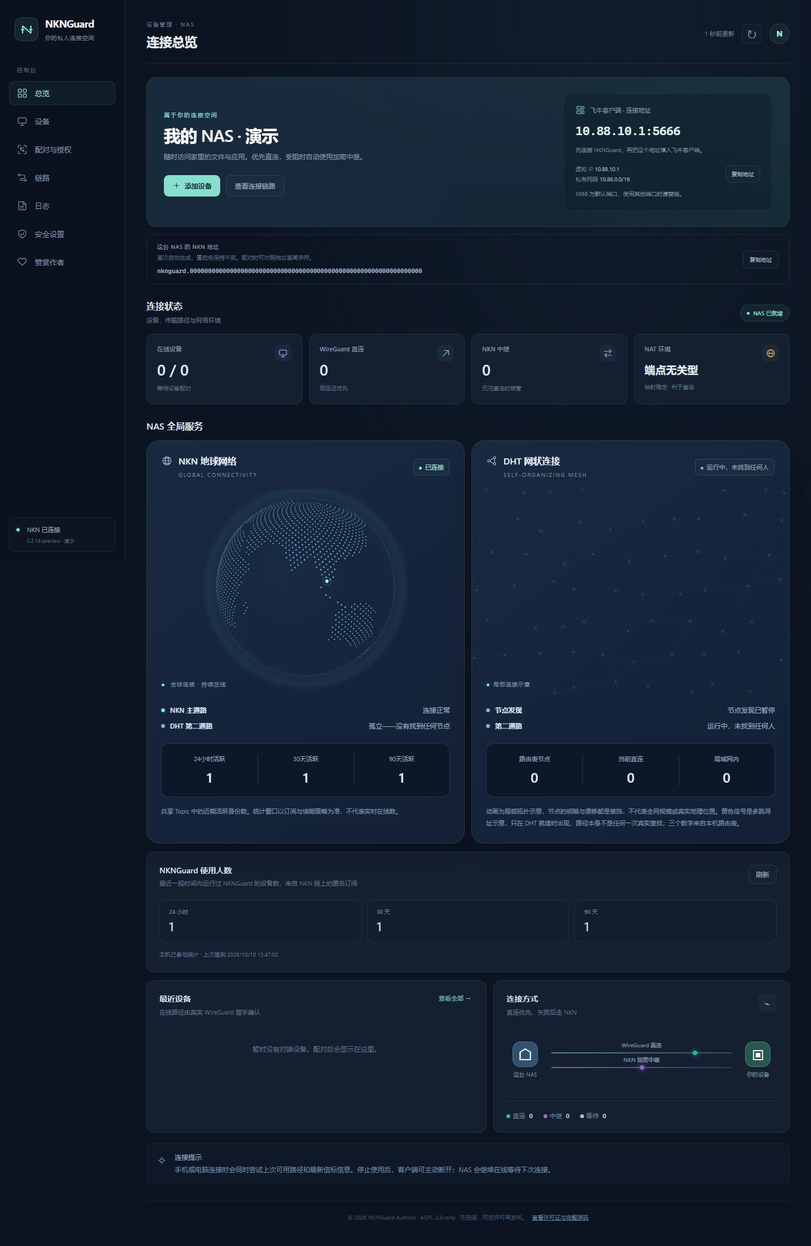
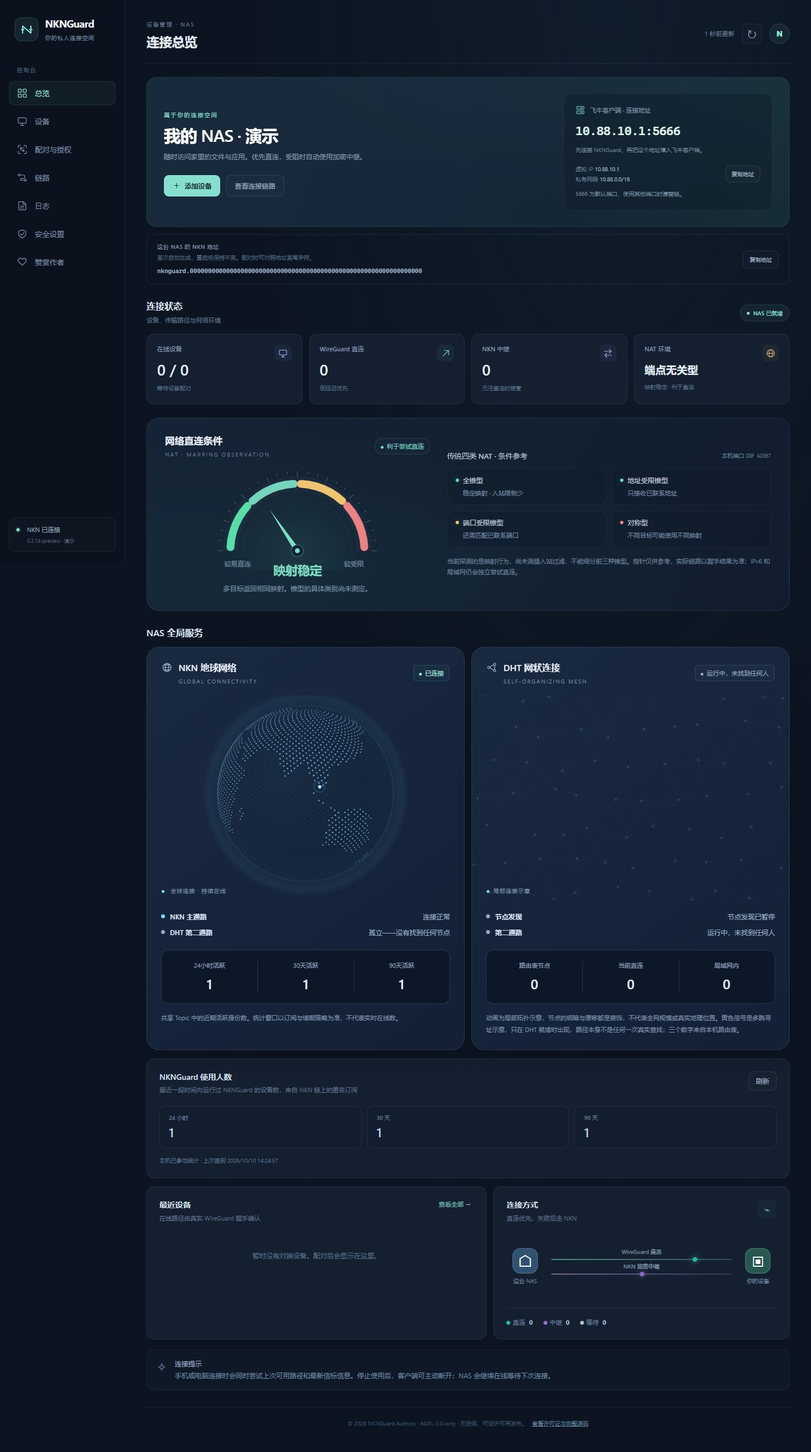
Add native and web NAT mapping dials with accurate status

diff --git a/internal/app/dashboard/index.html b/internal/app/dashboard/index.html
@@ -13,6 +13,8 @@
   <link rel="stylesheet" href="/network-animation.css">
   <link rel="stylesheet" href="/shell.css">
   <link rel="stylesheet" href="/support.css">
+  <link rel="stylesheet" href="/nat-gauge.css">
+  <script src="/nat-gauge.js" defer></script>
   <script src="/support.js" defer></script>
   <script src="/app.js" defer></script>
   <script src="/network-animation.js" type="module"></script>
@@ -56,6 +58,23 @@
         <section class="nas-identity" aria-label="NAS NKN 地址"><div><span class="identity-kicker">这台 NAS 的 NKN 地址</span><p>首次启动生成，重启后保持不变。配对时可对照地址首尾字符。</p><code id="overview-nkn-address">正在读取…</code></div><button class="secondary-button" id="copy-nkn-address" disabled>复制地址</button></section>
         <div class="section-head"><div><h2>连接状态</h2><p>设备、传输路径与网络环境</p></div><span id="overall-pill" class="pill neutral"><i></i>正在读取</span></div>
         <div class="stat-grid"><article class="stat-card"><span class="stat-icon blue"><svg viewBox="0 0 24 24" fill="none" stroke="currentColor" stroke-width="1.5" stroke-linecap="round" stroke-linejoin="round" aria-hidden="true"><use href="#icon-devices"/></svg></span><small>在线设备</small><strong id="online-count">—</strong><span class="stat-note" id="total-count">等待设备数据</span></article><article class="stat-card"><span class="stat-icon mint"><svg viewBox="0 0 24 24" fill="none" stroke="currentColor" stroke-width="1.5" stroke-linecap="round" stroke-linejoin="round" aria-hidden="true"><use href="#icon-direct"/></svg></span><small>WireGuard 直连</small><strong id="direct-count">—</strong><span class="stat-note">低延迟优先</span></article><article class="stat-card"><span class="stat-icon purple"><svg viewBox="0 0 24 24" fill="none" stroke="currentColor" stroke-width="1.5" stroke-linecap="round" stroke-linejoin="round" aria-hidden="true"><use href="#icon-relay"/></svg></span><small>NKN 中继</small><strong id="relay-count">—</strong><span class="stat-note">无法直连时接管</span></article><article class="stat-card"><span class="stat-icon amber"><svg viewBox="0 0 24 24" fill="none" stroke="currentColor" stroke-width="1.5" stroke-linecap="round" stroke-linejoin="round" aria-hidden="true"><use href="#icon-network"/></svg></span><small>NAT 环境</small><strong class="text-stat" id="nat-state">—</strong><span class="stat-note" id="nat-note">等待自动探测</span></article></div>
+        <section class="nat-panel" id="nat-panel" data-mapping="unknown" aria-labelledby="nat-gauge-title">
+          <div><div class="nat-panel__head"><div><h3 id="nat-gauge-title">网络直连条件</h3><p class="nat-panel__eyebrow">NAT · MAPPING OBSERVATION</p></div><span class="nat-chip"><i></i><span id="nat-chip-text">等待网络探测</span></span></div>
+          <div class="nat-dial"><svg viewBox="0 0 320 180" role="img" aria-label="NAT 映射条件尚未测定">
+            <defs><radialGradient id="nat-halo"><stop stop-color="#7ddcc5" stop-opacity=".08"/><stop offset="1" stop-color="#7ddcc5" stop-opacity="0"/></radialGradient><linearGradient id="nat-needle-shade" x1="0" y1="0" x2="0" y2="1"><stop stop-color="currentColor"/><stop offset="1" stop-color="currentColor" stop-opacity=".25"/></linearGradient></defs>
+            <circle cx="160" cy="147" r="110" fill="url(#nat-halo)"/>
+            <path d="M48 147 A112 112 0 0 1 272 147" fill="none" stroke="#ffffff06" stroke-width="25"/>
+            <g fill="none" stroke-width="13" stroke-linecap="round"><path d="M48.2 141.1 A112 112 0 0 1 76.8 72" stroke="#5bddaa"/><path d="M85 63.8 A112 112 0 0 1 154.1 35.2" stroke="#77d4bc"/><path d="M165.9 35.2 A112 112 0 0 1 235 63.8" stroke="#efc470"/><path d="M243.2 72 A112 112 0 0 1 271.8 141.1" stroke="#ed8285"/></g>
+            <line class="nat-tick" x1="36.00" y1="147.00" x2="27.00" y2="147.00"/><line class="nat-tick" x1="32.10" y1="130.16" x2="28.14" y2="129.64"/><line class="nat-tick" x1="35.40" y1="113.61" x2="31.53" y2="112.58"/><line class="nat-tick" x1="45.44" y1="99.55" x2="37.12" y2="96.10"/><line class="nat-tick" x1="48.28" y1="82.50" x2="44.82" y2="80.50"/><line class="nat-tick" x1="57.66" y1="68.47" x2="54.48" y2="66.03"/><line class="nat-tick" x1="72.32" y1="59.32" x2="65.95" y2="52.95"/><line class="nat-tick" x1="81.47" y1="44.66" x2="79.03" y2="41.48"/><line class="nat-tick" x1="95.50" y1="35.28" x2="93.50" y2="31.82"/><line class="nat-tick" x1="112.55" y1="32.44" x2="109.10" y2="24.12"/><line class="nat-tick" x1="126.61" y1="22.40" x2="125.58" y2="18.53"/><line class="nat-tick" x1="143.16" y1="19.10" x2="142.64" y2="15.14"/><line class="nat-tick" x1="160.00" y1="23.00" x2="160.00" y2="14.00"/><line class="nat-tick" x1="176.84" y1="19.10" x2="177.36" y2="15.14"/><line class="nat-tick" x1="193.39" y1="22.40" x2="194.42" y2="18.53"/><line class="nat-tick" x1="207.45" y1="32.44" x2="210.90" y2="24.12"/><line class="nat-tick" x1="224.50" y1="35.28" x2="226.50" y2="31.82"/><line class="nat-tick" x1="238.53" y1="44.66" x2="240.97" y2="41.48"/><line class="nat-tick" x1="247.68" y1="59.32" x2="254.05" y2="52.95"/><line class="nat-tick" x1="262.34" y1="68.47" x2="265.52" y2="66.03"/><line class="nat-tick" x1="271.72" y1="82.50" x2="275.18" y2="80.50"/><line class="nat-tick" x1="274.56" y1="99.55" x2="282.88" y2="96.10"/><line class="nat-tick" x1="284.60" y1="113.61" x2="288.47" y2="112.58"/><line class="nat-tick" x1="287.90" y1="130.16" x2="291.86" y2="129.64"/><line class="nat-tick" x1="284.00" y1="147.00" x2="293.00" y2="147.00"/>
+            <path d="M70 147 A90 90 0 0 1 250 147" fill="none" stroke="#ffffff08"/>
+            <g class="nat-needle"><path d="M160 65 L156 141 L160 153 L164 141 Z" fill="currentColor"/><circle cx="160" cy="147" r="10" fill="#122437" stroke="currentColor" stroke-opacity=".4"/><circle cx="160" cy="147" r="4" fill="currentColor"/></g>
+            <text x="38" y="173" class="nat-dial__label">较易直连</text><text x="238" y="173" class="nat-dial__label">较受限</text>
+          </svg></div><div class="nat-result" aria-live="polite"><strong id="nat-gauge-label">尚未测定</strong><p id="nat-gauge-hint">连接后自动探测；暂无足够结果，指针保持灰色。</p></div></div>
+          <div class="nat-guide"><div class="nat-guide__top"><b>传统四类 NAT · 条件参考</b><span>本机端口 <span class="nat-port" id="nat-gauge-port">尚未监听</span></span></div>
+            <div class="nat-types"><div class="nat-type" style="--type-color:#5bddaa"><b><i></i>全锥型</b><p>稳定映射 · 入站限制少</p></div><div class="nat-type" style="--type-color:#77d4bc"><b><i></i>地址受限锥型</b><p>只接收已联系地址</p></div><div class="nat-type" style="--type-color:#efc470"><b><i></i>端口受限锥型</b><p>还需匹配已联系端口</p></div><div class="nat-type" style="--type-color:#ed8285"><b><i></i>对称型</b><p>不同目标可能使用不同映射</p></div></div>
+            <p class="nat-footnote">当前探测的是映射行为，尚未测量入站过滤，不能细分前三种锥型。指针仅供参考，实际链路以握手结果为准；IPv6 和局域网仍会独立尝试直连。</p>
+          </div>
+        </section>
         <section class="network-animations" id="network-animations" aria-labelledby="network-services-title">
   <h3 id="network-services-title">NAS 全局服务</h3>
   <div class="network-card-grid">

diff --git a/android/app/src/main/kotlin/io/github/viperboss/nknguard/ui/NatGaugeView.kt b/android/app/src/main/kotlin/io/github/viperboss/nknguard/ui/NatGaugeView.kt
@@ -1,0 +1,117 @@
+package io.github.viperboss.nknguard.ui
+
+import android.animation.ValueAnimator
+import android.content.Context
+import android.graphics.Canvas
+import android.graphics.Color
+import android.graphics.Paint
+import android.graphics.Path
+import android.graphics.RadialGradient
+import android.graphics.RectF
+import android.graphics.Shader
+import android.graphics.Typeface
+import android.provider.Settings
+import android.view.View
+import android.view.animation.DecelerateInterpolator
+import kotlin.math.cos
+import kotlin.math.sin
+
+/** Qualitative mapping observation, not a NAT1-4 or reachability measurement. */
+class NatGaugeView(context: Context) : View(context) {
+    private val paint = Paint(Paint.ANTI_ALIAS_FLAG)
+    private val colors = listOf("#5BDDAA", "#77D4BC", "#EFC470", "#ED8285").map(Color::parseColor)
+    private var angle = 0f
+    private var needleColor = Color.parseColor("#7E91A9")
+    private var label = "尚未测定"
+    private var detail = "连接后自动探测"
+    private var state = "unknown"
+    private var animator: ValueAnimator? = null
+
+    fun update(behaviour: String) {
+        val key = behaviour.takeIf { it in setOf("open", "endpoint-independent", "address-dependent") } ?: "unknown"
+        if (key == state) return
+        state = key
+        val target: Float
+        when (key) {
+            "open" -> { target = -76f; label = "公网 · 无地址转换"; detail = "防火墙仍可能限制直连"; needleColor = colors[0] }
+            "endpoint-independent" -> { target = -34f; label = "映射稳定"; detail = "锥型具体类别尚未测定"; needleColor = colors[1] }
+            "address-dependent" -> { target = 72f; label = "映射随目标变化"; detail = "对称型映射特征 · 直连较难"; needleColor = colors[3] }
+            else -> { target = 0f; label = "尚未测定"; detail = "连接后自动探测"; needleColor = Color.parseColor("#7E91A9") }
+        }
+        contentDescription = "NAT 映射条件：$label。$detail。入站过滤尚未测量。"
+        animator?.cancel()
+        if (isShown && Settings.Global.getFloat(context.contentResolver, Settings.Global.ANIMATOR_DURATION_SCALE, 1f) > 0) {
+            animator = ValueAnimator.ofFloat(angle, target).apply {
+                duration = 900
+                interpolator = DecelerateInterpolator(2f)
+                addUpdateListener { angle = it.animatedValue as Float; invalidate() }
+                start()
+            }
+        } else { angle = target; invalidate() }
+    }
+
+    override fun onDetachedFromWindow() { animator?.cancel(); super.onDetachedFromWindow() }
+    override fun onMeasure(widthMeasureSpec: Int, heightMeasureSpec: Int) {
+        val w = MeasureSpec.getSize(widthMeasureSpec)
+        setMeasuredDimension(w, resolveSize((w * .75f).toInt(), heightMeasureSpec))
+    }
+    override fun onDraw(canvas: Canvas) {
+        super.onDraw(canvas)
+        // Use a shared 320-unit design; all typography scales with the device font preference.
+        val scale = width / 320f
+        if (scale <= 0) return
+        val font = resources.configuration.fontScale.coerceAtMost(1.5f)
+        canvas.save()
+        canvas.scale(scale, scale)
+        paint.shader = RadialGradient(160f, 145f, 120f, intArrayOf(Color.argb(18, 125, 220, 197), Color.TRANSPARENT), null, Shader.TileMode.CLAMP)
+        canvas.drawCircle(160f, 145f, 120f, paint)
+        paint.shader = null
+        paint.style = Paint.Style.STROKE
+        paint.strokeWidth = 25f
+        paint.color = Color.parseColor("#203144")
+        canvas.drawArc(RectF(48f, 33f, 272f, 257f), 180f, 180f, false, paint)
+        paint.strokeWidth = 13f
+        paint.strokeCap = Paint.Cap.ROUND
+        colors.forEachIndexed { i, color ->
+            paint.color = color
+            canvas.drawArc(RectF(48f, 33f, 272f, 257f), 183f + i * 45, 39f, false, paint)
+        }
+        paint.strokeCap = Paint.Cap.BUTT
+        paint.strokeWidth = 1f
+        paint.color = Color.parseColor("#456078")
+        for (i in 0..24) {
+            val a = Math.PI + i * Math.PI / 24
+            val inner = if (i % 3 == 0) 124f else 129f
+            canvas.drawLine(160 + inner * cos(a).toFloat(), 145 + inner * sin(a).toFloat(), 160 + 133 * cos(a).toFloat(), 145 + 133 * sin(a).toFloat(), paint)
+        }
+        paint.color = Color.parseColor("#273A4D")
+        canvas.drawArc(RectF(70f, 55f, 250f, 235f), 180f, 180f, false, paint)
+        paint.style = Paint.Style.FILL
+        canvas.save()
+        canvas.rotate(angle, 160f, 145f)
+        paint.color = needleColor
+        canvas.drawPath(Path().apply { moveTo(160f, 63f); lineTo(156f, 139f); lineTo(160f, 151f); lineTo(164f, 139f); close() }, paint)
+        paint.color = Color.parseColor("#122437")
+        canvas.drawCircle(160f, 145f, 10f, paint)
+        paint.color = needleColor
+        canvas.drawCircle(160f, 145f, 4f, paint)
+        canvas.restore()
+        paint.typeface = Typeface.DEFAULT
+        paint.textSize = 11f * font
+        paint.color = Color.parseColor("#839AB3")
+        paint.textAlign = Paint.Align.LEFT
+        canvas.drawText("较易直连", 30f, 173f, paint)
+        paint.textAlign = Paint.Align.RIGHT
+        canvas.drawText("较受限", 290f, 173f, paint)
+        paint.textAlign = Paint.Align.CENTER
+        paint.typeface = Typeface.DEFAULT_BOLD
+        paint.color = needleColor
+        paint.textSize = 20f * font
+        canvas.drawText(label, 160f, 202f, paint)
+        paint.typeface = Typeface.DEFAULT
+        paint.color = Color.parseColor("#839AB3")
+        paint.textSize = 11f * font
+        canvas.drawText(detail, 160f, 224f, paint)
+        canvas.restore()
+    }
+}

diff --git a/android/app/src/main/kotlin/io/github/viperboss/nknguard/ui/MainActivity.kt b/android/app/src/main/kotlin/io/github/viperboss/nknguard/ui/MainActivity.kt
@@ -57,6 +57,7 @@ class MainActivity : Activity(), NkgApp.Listener {
     private lateinit var usageNote: TextView
     private lateinit var nasCards: LinearLayout
     private lateinit var connectionScene: ConnectionSceneView
+    private lateinit var natGauge: NatGaugeView
     private lateinit var nasHeading: TextView
     private lateinit var accessLine: TextView
     private var nasListStamp = ""
@@ -341,6 +342,7 @@ class MainActivity : Activity(), NkgApp.Listener {
         connectionScene.pending = connected && !connectionScene.online
         connectionScene.relay = phase == "relay"
         connectionScene.invalidate()
+        natGauge.update(if (connected) status.optString("nat_behaviour", "unknown") else "unknown")
         nasHeading.text = app.nasRegistry.active().name
         val virtualIP = status.optString("nas_virtual_ip").ifBlank { app.nasRegistry.active().virtualIP }
         accessLine.text = if (virtualIP.isBlank()) "配对后显示你的 NAS 访问地址" else "飞牛访问地址  $virtualIP:5666  ⧉"
@@ -650,6 +652,37 @@ class MainActivity : Activity(), NkgApp.Listener {
         scanButton.textSize = 14f
         pasteButton.textSize = 14f
         column.addView(addActions, spaced())
+
+        val natCard = card()
+        val natHead = LinearLayout(this).apply { gravity = Gravity.CENTER_VERTICAL }
+        natHead.addView(TextView(this).apply {
+            text = "网络直连条件"
+            textSize = 16f
+            typeface = Typeface.DEFAULT_BOLD
+            setTextColor(palette.text)
+        }, LinearLayout.LayoutParams(0, -2, 1f))
+        natHead.addView(TextView(this).apply {
+            text = "四类 NAT  ⓘ"
+            textSize = 12f
+            setTextColor(palette.accent)
+            setPadding(dp(8), dp(6), 0, dp(6))
+            setOnClickListener {
+                AlertDialog.Builder(this@MainActivity).setTitle("传统四类 NAT")
+                    .setMessage("绿色 · 全锥型\n映射稳定，入站限制较少。\n\n青绿 · 地址受限锥型\n只接收已联系过的地址。\n\n黄色 · 端口受限锥型\n还需匹配已联系过的端口。\n\n红色 · 对称型\n不同目标可能使用不同映射。\n\n当前测量的是映射行为，尚未测量入站过滤，不能细分前三种锥型。指针仅为条件参考，直连是否可用以真实握手为准。IPv6 与局域网仍会独立尝试直连。")
+                    .setPositiveButton("知道了", null).show()
+            }
+        })
+        natCard.addView(natHead)
+        natGauge = NatGaugeView(this).apply { contentDescription = "NAT 映射条件尚未测定，连接后自动探测" }
+        // Keep the dial aspect ratio on tablets and honour large text settings.
+        natCard.addView(natGauge, LinearLayout.LayoutParams(-1, -2))
+        natCard.addView(TextView(this).apply {
+            text = "绿色条件较好，红色限制较多；灰色表示尚无探测结果。实际连接以握手为准。"
+            textSize = 11f
+            setTextColor(palette.muted)
+            setPadding(0, dp(6), 0, 0)
+        })
+        column.addView(natCard, spaced())
 
         rows = LinearLayout(this).apply { orientation = LinearLayout.VERTICAL }
         val detailCard = card()

diff --git a/internal/app/dashboard/nat-gauge.css b/internal/app/dashboard/nat-gauge.css
@@ -1,0 +1,5 @@
+.nat-panel{margin:24px 0;display:grid;grid-template-columns:minmax(270px,.9fr) minmax(0,1.1fr);gap:30px;padding:28px 32px;border:1px solid #ffffff12;border-radius:22px;background:radial-gradient(ellipse at 18% 80%,#3dc9ad0d,transparent 65%),linear-gradient(120deg,#142335,#111d2e);overflow:hidden}
+.nat-panel__head{display:flex;justify-content:space-between;align-items:center;gap:14px}.nat-panel h3{font-size:17px;color:#e5eef7;margin:0}.nat-panel__eyebrow{color:#6c829b;font-size:10px;letter-spacing:2px;margin:7px 0 0}.nat-chip{border:1px solid #7891ad30;border-radius:30px;padding:6px 10px;font-size:11px;white-space:nowrap;color:#8ca1b9;background:#7891ad09}.nat-chip i{display:inline-block;width:5px;height:5px;border-radius:50%;background:currentColor;margin-right:6px}
+.nat-dial{max-width:340px;margin:8px auto 0;position:relative}.nat-dial svg{display:block;width:100%;height:auto}.nat-tick{stroke:#456078;stroke-width:1}.nat-needle{transition:transform 1s cubic-bezier(.2,.75,.25,1);transform-origin:160px 147px;transform:rotate(0deg);color:#7e91a9}.nat-dial__label{font:11px system-ui,sans-serif;fill:#778fa8}.nat-result{text-align:center;margin:-16px 0 0;position:relative}.nat-result strong{display:block;font-size:22px;letter-spacing:-.4px;color:#a3b5cb}.nat-result p{font-size:12px;color:#7d94ae;margin:8px 0 0;line-height:1.7}.nat-panel[data-mapping='open'] .nat-result strong,.nat-panel[data-mapping='open'] .nat-chip{color:#62dfb2}.nat-panel[data-mapping='endpoint-independent'] .nat-result strong,.nat-panel[data-mapping='endpoint-independent'] .nat-chip{color:#7ddcc5}.nat-panel[data-mapping='address-dependent'] .nat-result strong,.nat-panel[data-mapping='address-dependent'] .nat-chip{color:#f48b8b}
+.nat-guide{display:flex;flex-direction:column;justify-content:center;min-width:0}.nat-guide__top{display:flex;justify-content:space-between;align-items:center;gap:12px;margin-bottom:14px}.nat-guide__top b{font-size:13px;color:#b8c8d9;font-weight:500}.nat-guide__top span{font-size:10px;color:#6b8199}.nat-types{display:grid;grid-template-columns:1fr 1fr;gap:10px}.nat-type{padding:12px 14px;border:1px solid #ffffff0c;border-radius:12px;background:#0b17254d}.nat-type b{display:flex;align-items:center;gap:7px;font-size:12px;font-weight:500;color:#c3d0df}.nat-type i{width:6px;height:6px;border-radius:50%;background:var(--type-color);box-shadow:0 0 9px color-mix(in srgb,var(--type-color),transparent 75%)}.nat-type p{margin:6px 0 0 13px;font-size:11px;color:#7b90a8;line-height:1.6}.nat-footnote{font-size:11px;color:#71869f;line-height:1.8;margin:14px 0 0}.nat-port{font-family:ui-monospace,monospace;color:#a3b8cc}
+@media(max-width:1000px){.nat-panel{padding:24px;gap:22px}}@media(max-width:650px){.nat-panel{grid-template-columns:1fr;padding:22px 20px;gap:24px}.nat-dial{max-width:300px}.nat-result strong{font-size:21px}.nat-types{gap:8px}.nat-type{padding:11px 10px}.nat-guide__top span{font-size:9px}}@media(prefers-reduced-motion:reduce){.nat-needle{transition:none}}

diff --git a/internal/app/dashboard/nat-gauge.js b/internal/app/dashboard/nat-gauge.js
@@ -1,0 +1,27 @@
+/* Mapping-only STUN observations cannot distinguish cone filtering classes.
+ * The dial shows a qualitative mapping hint, never a measured NAT1-4 score. */
+(() => {
+  const states = {
+    open: {angle:-76,label:'公网 · 无地址转换',hint:'没有检测到地址转换；防火墙仍可能限制直连。',chip:'映射条件开放',color:'#62dfb2'},
+    'endpoint-independent': {angle:-34,label:'映射稳定',hint:'多目标返回相同映射。锥型的具体类别尚未测定。',chip:'利于尝试直连',color:'#7ddcc5'},
+    'address-dependent': {angle:72,label:'映射随目标变化',hint:'具备对称型映射特征，直连难度较高；仍会尝试。',chip:'映射条件受限',color:'#f48b8b'},
+    unknown: {angle:0,label:'尚未测定',hint:'连接后自动探测；暂无足够结果，指针保持灰色。',chip:'等待网络探测',color:'#7e91a9'}
+  };
+  function update(status) {
+    const key = Object.hasOwn(states,status?.nat_behaviour) ? status.nat_behaviour : 'unknown';
+    const value = states[key];
+    const panel = document.getElementById('nat-panel');
+    if (!panel) return;
+    panel.dataset.mapping = key;
+    const needle = panel.querySelector('.nat-needle');
+    needle.style.transform = `rotate(${value.angle}deg)`;
+    needle.style.color = value.color;
+    document.getElementById('nat-gauge-label').textContent = value.label;
+    document.getElementById('nat-gauge-hint').textContent = value.hint;
+    document.getElementById('nat-chip-text').textContent = value.chip;
+    document.getElementById('nat-gauge-port').textContent = status?.wireguard?.listen_port > 0 ? `UDP ${status.wireguard.listen_port}` : '尚未监听';
+    panel.querySelector('svg').setAttribute('aria-label',`NAT 映射条件：${value.label}。${value.hint}`);
+  }
+  window.addEventListener('nknguard-status', event => update(event.detail));
+  window.addEventListener('nknguard-status-unavailable', () => update(null));
+})();

diff --git a/internal/app/dashboard/app.js b/internal/app/dashboard/app.js
@@ -2,7 +2,7 @@ const byId = id => document.getElementById(id);
 const setText = (id, value) => { byId(id).textContent = value ?? '—'; };
 const pathLabel = path => ({'direct-wg':'WireGuard 直连','nkn-relay':'NKN 中继','none':'等待连接'})[path] || '等待连接';
 const stateLabel = state => ({'DIRECT':'已直连','RELAY':'已中继','PUNCHING':'正在打洞','RELAY_CONNECTING':'建立中继','OFFLINE':'离线'})[state] || '连接中';
-const natLabel = value => ({'endpoint-independent':'端点无关型','address-dependent':'对称型','open':'无需 NAT','unknown':'未知'})[value] || '未知';
+const natLabel = value => ({'endpoint-independent':'端点无关型','address-dependent':'映射随目标变化','open':'无需 NAT','unknown':'尚未测定'})[value] || '未知';
 const natHint = value => ({'endpoint-independent':'映射稳定 · 利于直连','address-dependent':'映射受限 · 可能需要中继','open':'直接连接公网','unknown':'等待自动探测'})[value] || '等待自动探测';
 let currentStatus = null;
 let currentUsage = null;

diff --git a/internal/mobile/status.go b/internal/mobile/status.go
@@ -10,6 +10,7 @@ import (
 
 	"github.com/Viper-Boss/nknguard/internal/app"
 	"github.com/Viper-Boss/nknguard/pkg/mesh"
+	"github.com/Viper-Boss/nknguard/pkg/nat"
 	"github.com/Viper-Boss/nknguard/pkg/nknclient"
 	"github.com/Viper-Boss/nknguard/pkg/wireguard"
 )
@@ -50,10 +51,11 @@ type Status struct {
 	DHTPeers         int                         `json:"dht_peers"`
 	RelayReady       bool                        `json:"relay_ready"`
 	RelayStandby     bool                        `json:"relay_standby"`
+	NATBehaviour     nat.Behaviour               `json:"nat_behaviour"`
 }
 
 func (a *Agent) status() Status {
-	status := Status{Phase: PhaseIdle, Path: string(mesh.PathNone)}
+	status := Status{Phase: PhaseIdle, Path: string(mesh.PathNone), NATBehaviour: nat.BehaviourUnknown}
 	profile, paired, _ := loadProfile(a.StateDir)
 	if paired {
 		status.Paired = a.Secrets.Has(SecretJoinSecret)
@@ -104,6 +106,7 @@ func (a *Agent) status() Status {
 		return status
 	}
 	status.RelayFallback = controller.Metrics().RelayFallbacks
+	status.NATBehaviour = controller.PortMapping().Behaviour
 	var nas mesh.Snapshot
 	for _, peer := range controller.Peers() {
 		if peer.DeviceID == current.profile.NASID {
@@ -183,6 +186,7 @@ func (a *Agent) diagnostics() string {
 	fmt.Fprintf(&out, "nas: %s  nas_address: %s\n", status.NASID, redact(status.NASAddress))
 	fmt.Fprintf(&out, "virtual_ip: %s  nas_virtual_ip: %s  mtu: %d\n", status.VirtualIP, status.NASVirtualIP, TunnelMTU)
 	fmt.Fprintf(&out, "nkn: connected=%t address=%s\n", status.NKNConnected, redact(status.NKNAddress))
+	fmt.Fprintf(&out, "nat_mapping: %s (filtering not measured)\n", status.NATBehaviour)
 	if c := status.NKNConnection; c != nil {
 		fmt.Fprintf(&out, "nkn_check: state=%s last_success=%s latency_ms=%d\n", c.State, c.LastSuccess.UTC().Format(time.RFC3339), c.LatencyMS)
 		if c.LastError != "" {

diff --git a/android/scripts/preview.py b/android/scripts/preview.py
@@ -34,10 +34,21 @@ fixture = {"selected": "legacy", "entries": [
 adb("shell", f"run-as {package} sh -c 'cat > files/nas-registry.json'", input=json.dumps(fixture, ensure_ascii=False).encode())
 start()
 screenshot("android-home.png")
-adb("shell", "uiautomator", "dump", "/sdcard/nkg-preview.xml")
-xml = subprocess.check_output(["adb", "shell", "cat", "/sdcard/nkg-preview.xml"])
-nodes = ET.fromstring(xml).iter("node")
-target = next(node for node in nodes if node.get("text") == "办公室 NAS · 演示")
+def find_text(text):
+    for _ in range(6):
+        adb("shell", "uiautomator", "dump", "/sdcard/nkg-preview.xml")
+        xml = subprocess.check_output(["adb", "shell", "cat", "/sdcard/nkg-preview.xml"])
+        (output / "hierarchy.xml").write_bytes(xml)
+        target = next((n for n in ET.fromstring(xml).iter("node") if n.get("text") == text), None)
+        if target is not None:
+            return target
+        size = subprocess.check_output(["adb", "shell", "wm", "size"]).decode()
+        w, h = map(int, re.findall(r"(\d+)x(\d+)", size)[-1])
+        adb("shell", "input", "swipe", str(w//2), str(h*3//4), str(w//2), str(h//3), "450")
+        time.sleep(1)
+    raise AssertionError(f"Missing UI element: {text}")
+
+target = find_text("办公室 NAS · 演示")
 x1, y1, x2, y2 = map(int, re.findall(r"\d+", target.get("bounds")))
 adb("shell", "input", "tap", str((x1+x2)//2), str((y1+y2)//2))
 time.sleep(5)
@@ -46,4 +57,6 @@ assert current["selected"] == office, "NAS card did not switch active profile"
 assert len(current["entries"]) == 2, "Switch deleted another NAS"
 adb("shell", "run-as", package, "ls", "files/secrets.bin", f"files/nas/{office}/secrets.bin")
 screenshot("android-devices.png")
+find_text("网络直连条件")
+screenshot("android-nat-gauge.png")
 print("Native UI and isolated NAS profile switch passed")

diff --git a/internal/app/lifecycle_test.go b/internal/app/lifecycle_test.go
@@ -51,6 +51,12 @@ func (w *lifecycleWG) Status(context.Context) wireguard.Status {
 	return wireguard.Status{State: s}
 }
 func (*lifecycleWG) Stats(context.Context) ([]wireguard.PeerStats, error) { return nil, nil }
+
+// The controller now publishes before NKN is ready, including in the offline
+// dashboard lifecycle test. Its fake must implement the key lookup explicitly.
+func (*lifecycleWG) PublicKey(context.Context) (string, error) {
+	return "", errors.New("test tunnel has no public key")
+}
 func (w *lifecycleWG) RemovePeer(_ context.Context, key string) error {
 	w.removed = append(w.removed, key)
 	return w.removeErr

diff --git a/pkg/nat/detector.go b/pkg/nat/detector.go
@@ -28,8 +28,8 @@ type Behaviour string
 const (
 	// BehaviourUnknown means we could not learn enough to say.
 	BehaviourUnknown Behaviour = "unknown"
-	// BehaviourOpen means the observed address equals the local one — no NAT
-	// in the path, or a full-cone one that behaves like it.
+	// BehaviourOpen means the observed address equals the local one. This
+	// measures translation, not inbound filtering or firewall reachability.
 	BehaviourOpen Behaviour = "open"
 	// BehaviourEndpointIndependent means the same external port was reported
 	// by every server. Hole punching usually works.

diff --git a/README.zh-CN.md b/README.zh-CN.md
@@ -166,8 +166,8 @@ nkn:
 - **中继很慢。** 走 NKN 会话，吞吐远低于直连，只是兜底。
 - **内核 WireGuard 独占 UDP 端口**，公网端口根据探测 socket 推断（假设 NAT 保持端口不变）。大多数家用路由器成立，部分不成立，见 [NAT 穿透](docs/NAT_TRAVERSAL.md)。
 - **成员证明仍基于共享密钥。** NAS 按批准名单执行单设备撤销；若共享密钥或设备私钥泄露，需要重建网络凭证，自动轮换尚未实现。
-- **客户端是预览版。** Windows 版为原生窗口，需先安装 WireGuard for Windows。 仅 IPv4 覆盖网络、每个节点只能加入一个网络；Android 暂无开机自启和“始终开启的 VPN”。
-- **使用人数统计是公开的。** 开启时每台设备每天在三个公开 NKN 主题上登记一个匿名公钥，提交时 NKN 节点能看到连接 IP；任何人都能向这些主题提交订阅，人数仅供参考。
+- **客户端是预览版。** Windows 版为原生窗口，需先安装 WireGuard for Windows。 仅 IPv4 覆盖网络；Android 可保存多台 NAS 的独立配对，一次连接一台，暂未加入开机自启。
+- **使用人数统计是公开的。** 每台运行设备每天自动在三个公开 NKN 主题上登记一个匿名公钥，提交时 NKN 节点能看到连接 IP；任何人都能向这些主题提交订阅，人数仅供参考。
 - **不匿名。** WireGuard 端点会向对端暴露 IP，NKN 地址可被长期关联，STUN 服务器能看到你的公网地址。
 - **国内 seed 是社区节点**，地址可能变化，失效时会自动回退官方节点。
 
@@ -185,6 +185,14 @@ cd android && ./gradlew assembleDebug             # Android（JDK 17 + Android S
 ```
 
 需要 Go ≥ 1.25.7。不带 `nknsdk` 标签的程序可以 `init`、`join`、`doctor`，但拒绝 `up`。详见 [docs/BUILD.md](docs/BUILD.md)。
+
+## 开发贡献
+
+- **[Viper-Boss](https://github.com/Viper-Boss)**：项目发起者与维护者。
+- **Claude**：初始雏形与 Android 开发辅助。
+- **Codex（OpenAI）**：网络连接、安全、NAS / Android 实现、界面及验证辅助；AI 辅助改动由维护者审阅。
+
+[NAT 指针仪表盘](docs/NAT-GAUGE.md) 显示真实测得的映射条件，未知时显示灰色。四类传统 NAT 单独提供中文说明；仅凭映射观测无法细分入站过滤。
 
 ## 许可证
 

diff --git a/docs/NAT-GAUGE.md b/docs/NAT-GAUGE.md
@@ -1,0 +1,20 @@
+# NAT 映射仪表盘
+
+NAS 面板和 Android 使用同一套红黄绿分区、缓动指针与中文状态。灰色表示未连接、没有足够的 STUN 结果或面板状态失联；灰色不代表最差网络。
+
+当前探测对同一个 UDP 套接字查询不同 STUN 目标，观察映射是否变化：
+
+| 测量结果 | 显示 | 指针 |
+| --- | --- | --- |
+| 公网观察地址与本地套接字地址一致 | 公网 · 无地址转换 | 绿色 |
+| 多目标得到相同外部映射 | 映射稳定 | 青绿 |
+| 外部映射随目标变化 | 映射随目标变化 | 红色 |
+| 没有足够结果 | 尚未测定 | 灰色 |
+
+这些是映射条件提示，不是带宽、延迟分数，也不证明公网入站可达。传统的全锥型、地址受限锥型、端口受限锥型和对称型在 UI 中作为参考说明；稳定映射不能单独区分前三种，不能直接显示成“全锥型”。地址相关的映射变化表示对称型映射特征，但当前探测也未区分地址相关和地址端口相关的详细行为。
+
+准确的细分还需要支持行为发现的 STUN 服务和入站过滤探测。普通 STUN 服务不可用或超时也不等于运营商防火墙已被确认。映射观测不会决定是否跳过直连；IPv6、局域网、ICE 和中继分别依据实际探测与认证握手工作。
+
+指针只在观测变化时缓动，不产生额外网络请求，不写入日志文件；系统关闭动画时直接显示目标位置。
+
+依据：[RFC 4787 的映射与过滤术语](https://www.rfc-editor.org/rfc/rfc4787.html)、[RFC 5780 的 NAT 行为发现](https://www.rfc-editor.org/rfc/rfc5780.html)。
